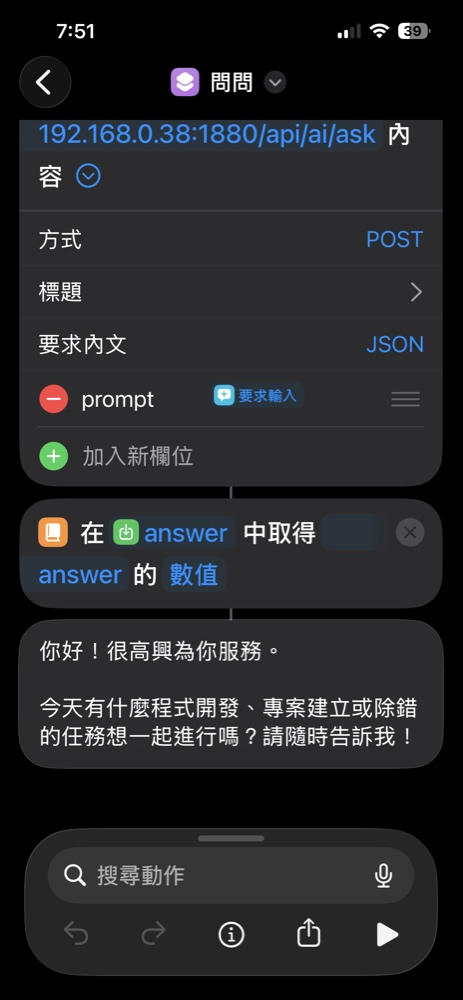
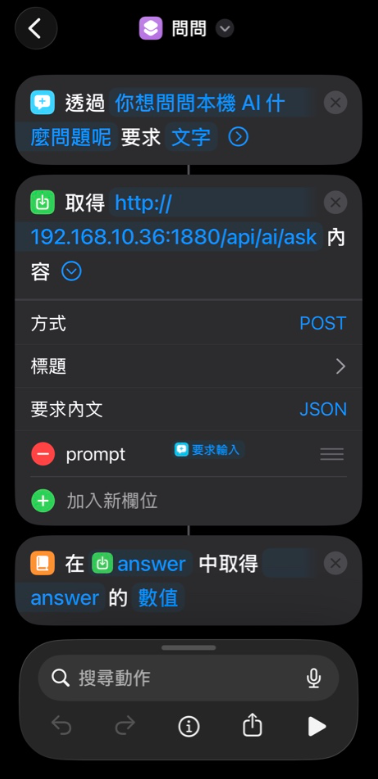
docs(day15): 更新圖片檔案名稱，修正顯示問題

diff --git a/Day15_本機AI_HTTP_API網關_手機捷徑與終端一鍵呼叫AI.md b/Day15_本機AI_HTTP_API網關_手機捷徑與終端一鍵呼叫AI.md
@@ -208,8 +208,8 @@ Write-Host "AI 回應: $($res.answer)" -ForegroundColor Green
 4. 新增動作：**「取得辭典值」**：從 `取得 URL 的內容` 中取得鍵值 **`answer`** 的數值。
 5. 新增動作：**「顯示結果」**，綁定取得的 `辭典值`。
 
-![03](./image/day15/03.png)
-![04](./image/day15/04.png)
+![1788729414712](./image/day15/03.png)
+![1788729315034](./image/day15/04.png)
 
 點擊桌面小工具、捷徑圖示或透過 Siri 語音呼叫，手機即可彈出動態輸入框，輸入後秒級連動本機電腦進行 AI 智慧問答，並直接呈現乾淨純粹的中文回答！
 
